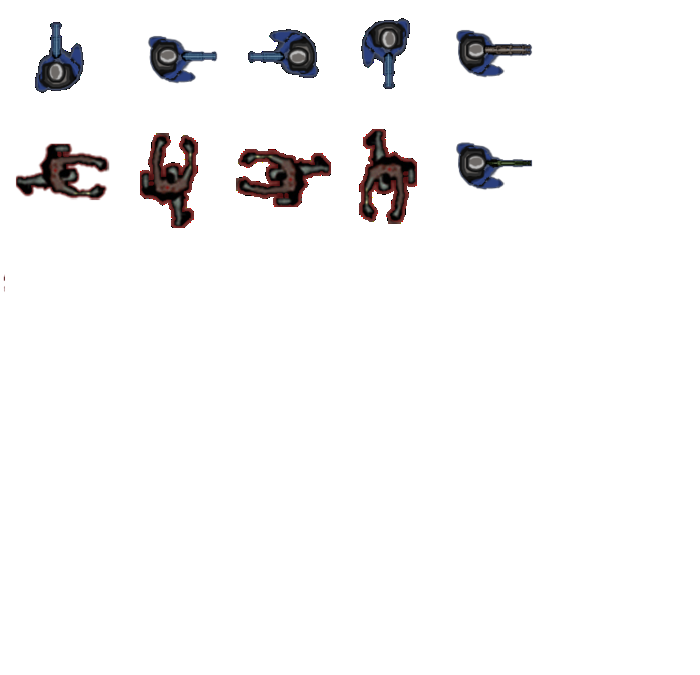
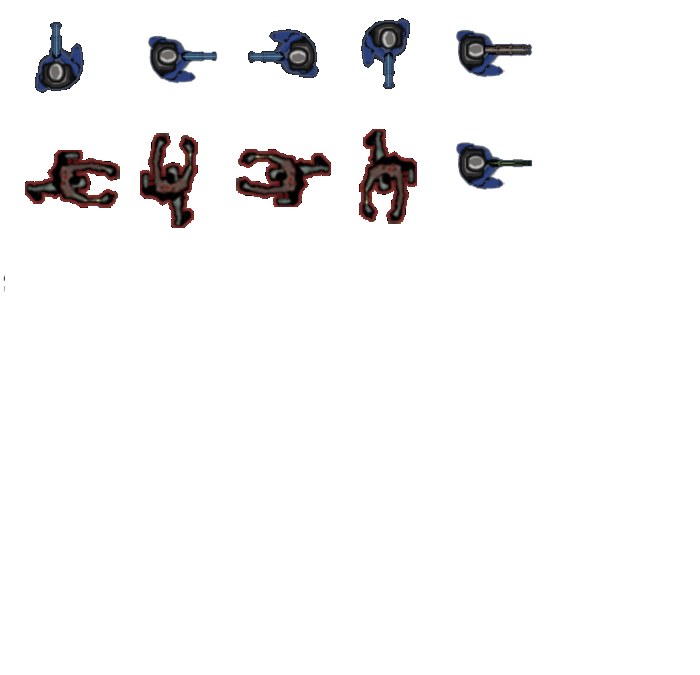
Final commit before live

Changed region(s): [[0.0, 0.1867, 0.18, 0.3111]]

diff --git a/lib/bundle.js b/lib/bundle.js
@@ -122,7 +122,7 @@ eval("const img = document.getElementById('sprite');\n\nfunction MovingObject(op
 /*! no static exports found */
 /***/ (function(module, exports, __webpack_require__) {
 
-eval("const Util = __webpack_require__(/*! ./util.js */ \"./lib/util.js\");\nconst MovingObject = __webpack_require__(/*! ./moving_object.js */ \"./lib/moving_object.js\");\nconst Bullet = __webpack_require__(/*! ./bullet.js */ \"./lib/bullet.js\");\nconst Sound = __webpack_require__(/*! ./sound.js */ \"./lib/sound.js\");\n\n\nconst PLAYER_SPRITE = [[4,0],[335,0],[120,3],[230,3]];\n\nconst glockSound = new Sound('./sounds/glock.wav');\n\nconst PLAYER_OPTIONS = {\n  SPEED: 10,\n  RADIUS: 15,\n  POS: [400, 300],\n  ORIENTATION: [0, 1],\n  // SPRITE: [135, 25, 100, 100],\n  // UP DOWN RIGHT LEFT\n  SPRITE: PLAYER_SPRITE[1]\n};\n\n\nfunction Player(game) {\n  var options = {\n    pos: PLAYER_OPTIONS.POS,\n    color: PLAYER_OPTIONS.COLOR,\n    vel: [0,0],\n    radius: PLAYER_OPTIONS.RADIUS,\n    orientation: PLAYER_OPTIONS.ORIENTATION,\n    game: game,\n    sprite: PLAYER_OPTIONS.SPRITE\n  };\n\n  MovingObject.call(this, options);\n}\n\n\nUtil.inherits(Player, MovingObject);\n\nPlayer.prototype.changeDirection = function(direction) {\n  if (this.game.paused) { return null };\n  var oldPos = this.pos;\n  this.pos = [this.pos[0] + (direction[0] * 20), this.pos[1] + (direction[1] * 20)];\n  if (!this.validPosition()) {\n    this.pos = oldPos;\n  }\n  this.orientation = direction;\n  this.updateSprite();\n}\n\nPlayer.prototype.updateSprite = function() {\n\n  if (this.orientation[1] >= 1) {\n    this.sprite = PLAYER_SPRITE[1];\n  } else if (this.orientation[1] <= -1) {\n    this.sprite = PLAYER_SPRITE[0];\n  } else if (this.orientation[0] >= 1) {\n    this.sprite = PLAYER_SPRITE[2];\n  } else if (this.orientation[0] <= -1) {\n    this.sprite = PLAYER_SPRITE[3];\n  }\n}\n\nPlayer.prototype.fireBullet = function() {\n  if (this.game.bullet_count > 0) {\n    var bullet = new Bullet(this.pos, this.orientation, this.game);\n    this.game.bullets.push(bullet);\n    glockSound.load();\n    glockSound.play();\n    this.game.bullet_count--;\n  }\n}\n\n\nmodule.exports = Player;\n\n\n//# sourceURL=webpack:///./lib/player.js?");
+eval("const Util = __webpack_require__(/*! ./util.js */ \"./lib/util.js\");\nconst MovingObject = __webpack_require__(/*! ./moving_object.js */ \"./lib/moving_object.js\");\nconst Bullet = __webpack_require__(/*! ./bullet.js */ \"./lib/bullet.js\");\nconst Sound = __webpack_require__(/*! ./sound.js */ \"./lib/sound.js\");\n\n\nconst PLAYER_SPRITE = [[4,0],[335,0],[120,3],[230,3]];\nconst glockSound = new Sound('./sounds/glock.wav');\n\nconst PLAYER_OPTIONS = {\n  SPEED: 10,\n  RADIUS: 15,\n  POS: [400, 300],\n  ORIENTATION: [0, 1],\n  // UP DOWN RIGHT LEFT\n  SPRITE: PLAYER_SPRITE[1]\n};\n\n\nfunction Player(game) {\n  var options = {\n    pos: PLAYER_OPTIONS.POS,\n    color: PLAYER_OPTIONS.COLOR,\n    vel: [0,0],\n    radius: PLAYER_OPTIONS.RADIUS,\n    orientation: PLAYER_OPTIONS.ORIENTATION,\n    game: game,\n    sprite: PLAYER_OPTIONS.SPRITE\n  };\n\n  MovingObject.call(this, options);\n}\n\n\nUtil.inherits(Player, MovingObject);\n\nPlayer.prototype.changeDirection = function(direction) {\n  if (this.game.paused) { return null };\n  var oldPos = this.pos;\n  this.pos = [this.pos[0] + (direction[0] * 20), this.pos[1] + (direction[1] * 20)];\n  if (!this.validPosition()) {\n    this.pos = oldPos;\n  }\n  this.orientation = direction;\n  this.updateSprite();\n}\n\nPlayer.prototype.updateSprite = function() {\n\n  if (this.orientation[1] >= 1) {\n    this.sprite = PLAYER_SPRITE[1];\n  } else if (this.orientation[1] <= -1) {\n    this.sprite = PLAYER_SPRITE[0];\n  } else if (this.orientation[0] >= 1) {\n    this.sprite = PLAYER_SPRITE[2];\n  } else if (this.orientation[0] <= -1) {\n    this.sprite = PLAYER_SPRITE[3];\n  }\n}\n\nPlayer.prototype.fireBullet = function() {\n  if (this.game.bullet_count > 0) {\n    var bullet = new Bullet(this.pos, this.orientation, this.game);\n    this.game.bullets.push(bullet);\n    glockSound.load();\n    glockSound.play();\n    this.game.bullet_count--;\n  }\n}\n\n\nmodule.exports = Player;\n\n\n//# sourceURL=webpack:///./lib/player.js?");
 
 /***/ }),
 
@@ -166,7 +166,7 @@ eval("const Util = {\n  inherits(Child, Parent) {\n    Child.prototype = Object.
 /*! no static exports found */
 /***/ (function(module, exports, __webpack_require__) {
 
-eval("const Util = __webpack_require__(/*! ./util.js */ \"./lib/util.js\");\nconst MovingObject = __webpack_require__(/*! ./moving_object.js */ \"./lib/moving_object.js\");\n\nconst ZOMBIE_SPRITE = [[130,130],[340,125],[10,130],[230,130]];\nconst ZOMBIE_OPTIONS = {\n  SPEED: 1,\n  RADIUS: 15\n};\n\n\nfunction Zombie(pos, game) {\n  var vector = Util.vector(pos, [game.player.pos[0], game.player.pos[1]]);\n  var sprite = vector[0] > 0 ? ZOMBIE_SPRITE[2] : ZOMBIE_SPRITE[3];\n  var options = {\n    pos: pos,\n    vel: [vector[0] * ZOMBIE_OPTIONS.SPEED, vector[1] * ZOMBIE_OPTIONS.SPEED],\n    radius: ZOMBIE_OPTIONS.RADIUS,\n    orientation: [vector[0], vector[1]],\n    game: game,\n    sprite: sprite\n  }\n\n  MovingObject.call(this, options);\n}\n\nUtil.inherits(Zombie, MovingObject);\n\n\nZombie.prototype.move = function() {\n  var vector = Util.vector(this.pos, [this.game.player.pos[0], this.game.player.pos[1]]);\n  this.updateSprite(vector);\n  this.pos = [this.pos[0] + vector[0], this.pos[1] + vector[1]];\n}\n\nZombie.prototype.updateSprite = function(vector) {\n  if (vector[1] > 0.8 && vector[0] < 0.3) {\n    this.sprite = ZOMBIE_SPRITE[1];\n  } else if (vector[1] < -0.8 && vector[0] < 0.3) {\n    this.sprite = ZOMBIE_SPRITE[0];\n  } else if (vector[0] > 0.6) {\n    this.sprite = ZOMBIE_SPRITE[2];\n  } else if (vector[0] < -0.6){\n    this.sprite = ZOMBIE_SPRITE[3];\n  }\n}\n\nmodule.exports = Zombie;\n\n\n//# sourceURL=webpack:///./lib/zombie.js?");
+eval("const Util = __webpack_require__(/*! ./util.js */ \"./lib/util.js\");\nconst MovingObject = __webpack_require__(/*! ./moving_object.js */ \"./lib/moving_object.js\");\n\nconst ZOMBIE_SPRITE = [[130,130],[340,125],[20,130],[230,130]];\nconst ZOMBIE_OPTIONS = {\n  SPEED: 0.95,\n  RADIUS: 15\n};\n\n\nfunction Zombie(pos, game) {\n  var vector = Util.vector(pos, [game.player.pos[0], game.player.pos[1]]);\n  var sprite = vector[0] > 0 ? ZOMBIE_SPRITE[2] : ZOMBIE_SPRITE[3];\n  var options = {\n    pos: pos,\n    vel: [vector[0] * ZOMBIE_OPTIONS.SPEED, vector[1] * ZOMBIE_OPTIONS.SPEED],\n    radius: ZOMBIE_OPTIONS.RADIUS,\n    orientation: [vector[0], vector[1]],\n    game: game,\n    sprite: sprite\n  }\n\n  MovingObject.call(this, options);\n}\n\nUtil.inherits(Zombie, MovingObject);\n\n\nZombie.prototype.move = function() {\n  var vector = Util.vector(this.pos, [this.game.player.pos[0], this.game.player.pos[1]]);\n  this.updateSprite(vector);\n  this.pos = [this.pos[0] + vector[0], this.pos[1] + vector[1]];\n}\n\nZombie.prototype.updateSprite = function(vector) {\n  if (vector[1] > 0.8 && vector[0] < 0.3) {\n    this.sprite = ZOMBIE_SPRITE[1];\n  } else if (vector[1] < -0.8 && vector[0] < 0.3) {\n    this.sprite = ZOMBIE_SPRITE[0];\n  } else if (vector[0] > 0.6) {\n    this.sprite = ZOMBIE_SPRITE[2];\n  } else if (vector[0] < -0.6){\n    this.sprite = ZOMBIE_SPRITE[3];\n  }\n}\n\nmodule.exports = Zombie;\n\n\n//# sourceURL=webpack:///./lib/zombie.js?");
 
 /***/ }),
 
@@ -177,7 +177,7 @@ eval("const Util = __webpack_require__(/*! ./util.js */ \"./lib/util.js\");\ncon
 /*! no static exports found */
 /***/ (function(module, exports, __webpack_require__) {
 
-eval("console.log(\"Webpack is working!\");\nconst Game = __webpack_require__(/*! ./game.js */ \"./lib/game.js\");\nconst Zombie = __webpack_require__(/*! ./zombie.js */ \"./lib/zombie.js\");\nconst MovingObject = __webpack_require__(/*! ./moving_object.js */ \"./lib/moving_object.js\");\nconst GameView = __webpack_require__(/*! ./game_view.js */ \"./lib/game_view.js\");\n\ndocument.addEventListener('DOMContentLoaded', function() {\n  const canvas = document.getElementById('canvas');\n  const ctx = canvas.getContext('2d');\n  const train = document.getElementById('train');\n  var gameview = new GameView(ctx);\n  const song = document.getElementById('background');\n  window.song = song;\n\n  canvas.addEventListener('click', function(event) {\n    if (event && gameview.game !== null) {\n      gameview.togglePause();\n    }\n\n    if (event && gameview.game === null) {\n      gameview.start();\n    }\n\n    if (event && gameview.game === undefined) {\n      gameview = new GameView(ctx);\n      gameview.start();\n    }\n  });\n\n  document.addEventListener('keypress', function(event) {\n      event.preventDefault();\n      if (event.key === \"m\") {\n        song.muted = !song.muted;\n      }\n  });\n  gameview.welcomeScreen();\n});\n\n\n//# sourceURL=webpack:///./lib/zombies.js?");
+eval("const Game = __webpack_require__(/*! ./game.js */ \"./lib/game.js\");\nconst Zombie = __webpack_require__(/*! ./zombie.js */ \"./lib/zombie.js\");\nconst MovingObject = __webpack_require__(/*! ./moving_object.js */ \"./lib/moving_object.js\");\nconst GameView = __webpack_require__(/*! ./game_view.js */ \"./lib/game_view.js\");\n\ndocument.addEventListener('DOMContentLoaded', function() {\n  const canvas = document.getElementById('canvas');\n  const ctx = canvas.getContext('2d');\n  const train = document.getElementById('train');\n  var gameview = new GameView(ctx);\n  const song = document.getElementById('background');\n\n  canvas.addEventListener('click', function(event) {\n    if (event && gameview.game !== null) {\n      gameview.togglePause();\n    }\n\n    if (event && gameview.game === null) {\n      gameview.start();\n    }\n\n    if (event && gameview.game === undefined) {\n      gameview = new GameView(ctx);\n      gameview.start();\n    }\n  });\n\n  document.addEventListener('keypress', function(event) {\n      event.preventDefault();\n      if (event.key === \"m\") {\n        song.muted = !song.muted;\n      }\n  });\n  // gameview.welcomeScreen();\n  gameview.renderMessage();\n});\n\n\n//# sourceURL=webpack:///./lib/zombies.js?");
 
 /***/ })
 

diff --git a/lib/zombies.js b/lib/zombies.js
@@ -1,4 +1,3 @@
-console.log("Webpack is working!");
 const Game = require('./game.js');
 const Zombie = require('./zombie.js');
 const MovingObject = require('./moving_object.js');
@@ -10,7 +9,6 @@ document.addEventListener('DOMContentLoaded', function() {
   const train = document.getElementById('train');
   var gameview = new GameView(ctx);
   const song = document.getElementById('background');
-  window.song = song;
 
   canvas.addEventListener('click', function(event) {
     if (event && gameview.game !== null) {
@@ -33,5 +31,6 @@ document.addEventListener('DOMContentLoaded', function() {
         song.muted = !song.muted;
       }
   });
-  gameview.welcomeScreen();
+  // gameview.welcomeScreen();
+  gameview.renderMessage();
 });

diff --git a/index.html b/index.html
@@ -14,6 +14,7 @@
       <ul class="sidebar">
         <li>Zombies</li>
         <li>A 2D Retro Inspired Survival Shooter</li>
+        <li>Click to start a new game</li>
         <li><img src="./images/wasd.png"></img> Move </li>
         <li><img src="./images/shift.png"></img> Sprint</li>
         <li><img src="./images/spacebar.png"> Shoot</li>
@@ -29,7 +30,7 @@
   </body>
   <footer>
     <ul class="footer">
-      <li>Made by Timmy Jing</li>
+      <li>&copy;Timmy Jing</li>
       <li><a href="https://www.linkedin.com/in/timmy-jing-47457362/">LinkedIn</a></li>
       <li><a href="https://github.com/timmyjing">GitHub</a></li>
     </ul>

diff --git a/lib/player.js b/lib/player.js
@@ -5,7 +5,6 @@ const Sound = require('./sound.js');
 
 
 const PLAYER_SPRITE = [[4,0],[335,0],[120,3],[230,3]];
-
 const glockSound = new Sound('./sounds/glock.wav');
 
 const PLAYER_OPTIONS = {
@@ -13,7 +12,6 @@ const PLAYER_OPTIONS = {
   RADIUS: 15,
   POS: [400, 300],
   ORIENTATION: [0, 1],
-  // SPRITE: [135, 25, 100, 100],
   // UP DOWN RIGHT LEFT
   SPRITE: PLAYER_SPRITE[1]
 };

diff --git a/lib/zombie.js b/lib/zombie.js
@@ -1,9 +1,9 @@
 const Util = require('./util.js');
 const MovingObject = require('./moving_object.js');
 
-const ZOMBIE_SPRITE = [[130,130],[340,125],[10,130],[230,130]];
+const ZOMBIE_SPRITE = [[130,130],[340,125],[20,130],[230,130]];
 const ZOMBIE_OPTIONS = {
-  SPEED: 1,
+  SPEED: 0.95,
   RADIUS: 15
 };
 

diff --git a/css/style.css b/css/style.css
@@ -8,7 +8,7 @@
   background: url('../images/back.png');
   background-size: cover;
   background-position: 120px -55px;
-  opacity: 0.85;
+  font-family: 'retro';
 }
 
 .background {
